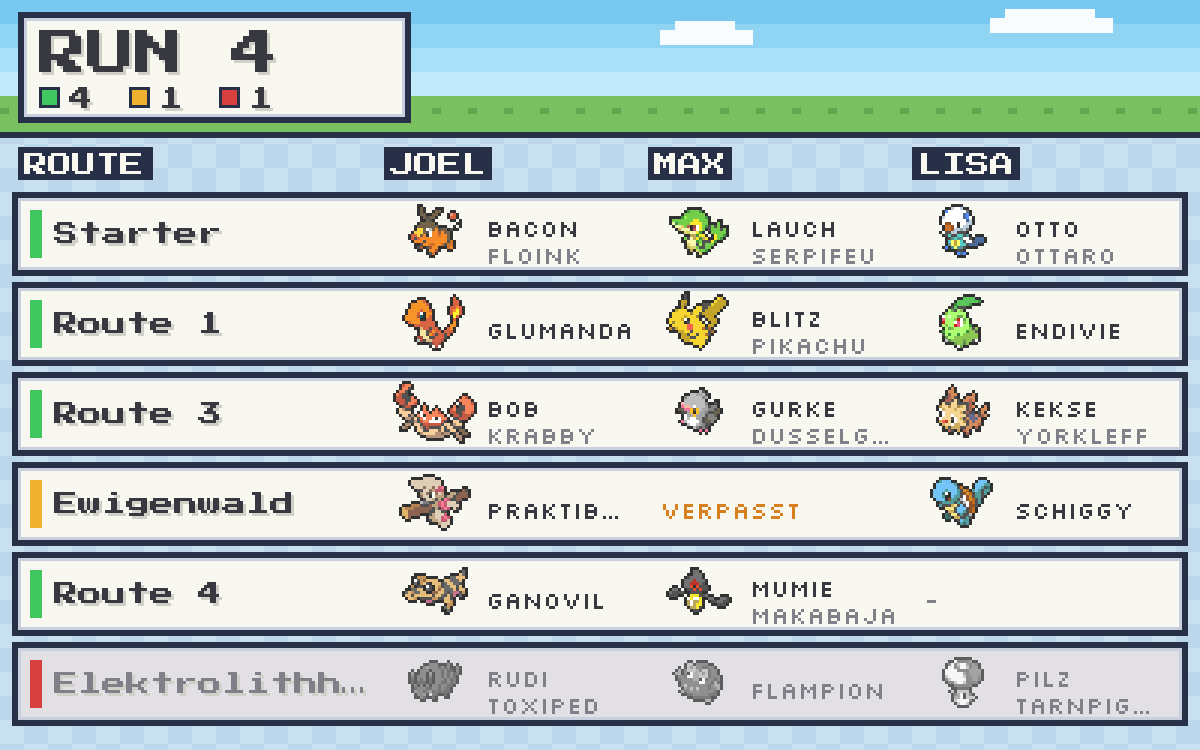
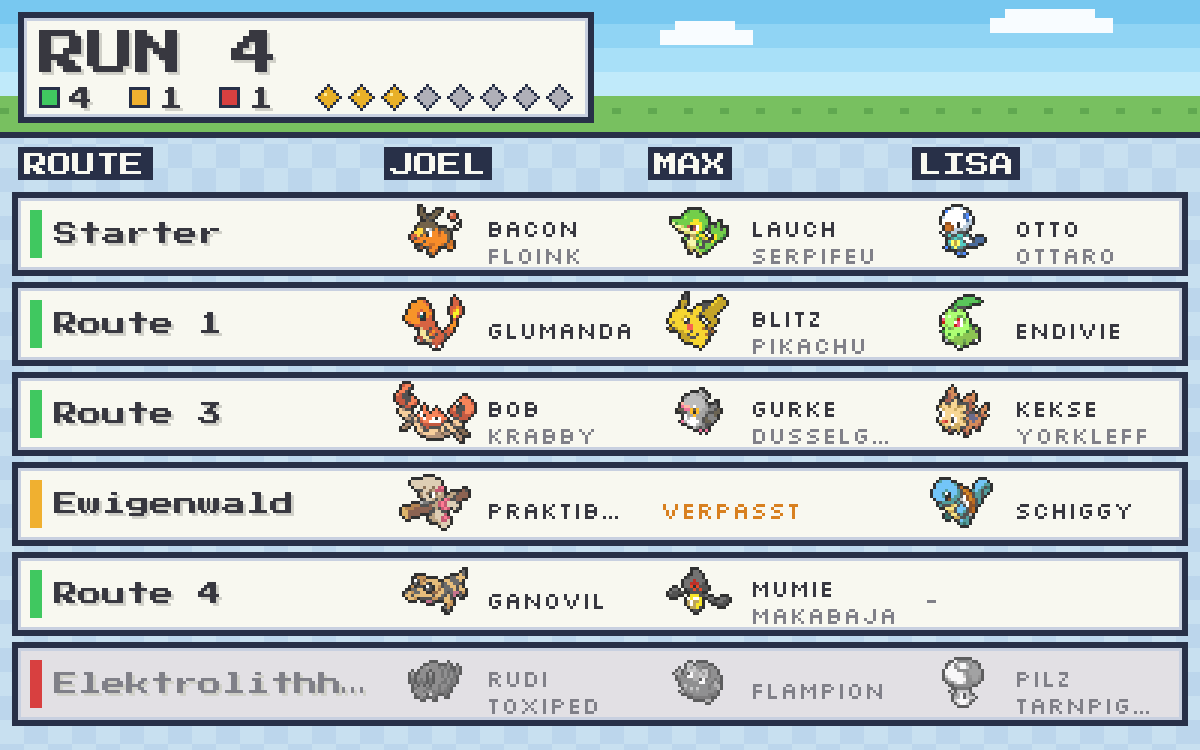
Arena-Fortschritt überall, globale Tabelle im Live-Status
- Ordenleiste im Status-Board und Live-Status
- Endstation und gefährlichster Gegner in /run liste
- Orden-Meilensteine und Orden-Kachel im Rückblick
- Spalte BESTE in der globalen Tabelle
- Live-Status zeigt zusätzlich die globale Tabelle

Changed region(s): [[0.2467, 0.0, 0.4933, 0.184]]

diff --git a/Services/ImageRenderer.cs b/Services/ImageRenderer.cs
@@ -392,14 +392,19 @@ public sealed class ImageRenderer
             using var img = CreatePage(mood, height);
             img.Mutate(ctx =>
             {
-                TitleBox(ctx, Sanitize(title), "", f8, f16);
+                (Color C, int V)[] legend =
+                [
+                    (PixGreen, run.Links.Count(l => l.Status == LinkStatus.Lebendig)),
+                    (PixYellow, run.Links.Count(l => l.Status == LinkStatus.Gebrochen)),
+                    (PixRed, run.Links.Count(l => l.Status == LinkStatus.Tot))
+                ];
+                // Rechts neben der Legende: 8 Orden, die geschafften golden
+                var badgesX = 13 + legend.Sum(l => 10 + (int)Width(l.V.ToString(), f8) + 12) + 2;
+                TitleBox(ctx, Sanitize(title), "", f8, f16, minWidth: Math.Max(130, badgesX + 8 * 11 - 2));
+                for (var i = 0; i < 8; i++) Badge(ctx, badgesX + i * 11, 28, i < LevelCaps.Badges(run.Progress));
+
                 var lx = 13;
-                foreach (var (c, v) in new[]
-                         {
-                             (PixGreen, run.Links.Count(l => l.Status == LinkStatus.Lebendig)),
-                             (PixYellow, run.Links.Count(l => l.Status == LinkStatus.Gebrochen)),
-                             (PixRed, run.Links.Count(l => l.Status == LinkStatus.Tot))
-                         })
+                foreach (var (c, v) in legend)
                 {
                     PixRect(ctx, lx, 29, lx + 6, 35, PixFrame);
                     PixRect(ctx, lx + 1, 30, lx + 5, 34, c);
@@ -462,7 +467,7 @@ public sealed class ImageRenderer
         IReadOnlyList<string[]> rows, string[]? total) =>
         SafeRenderAsync(async () =>
         {
-            const int RowH = 22, Top = 62, First = 150;
+            const int RowH = 22, Top = 62, First = 140;
             var height = Top + RowH * Math.Max(1, rows.Count) + 14 + (total is null ? 0 : RowH + 10) + 6;
             var step = (386f - First) / Math.Max(1, headers.Length - 1);
             var (f8, f16, fs) = Fonts();
@@ -546,7 +551,7 @@ public sealed class ImageRenderer
                 .ToDictionary(x => x.s, x => x.Img);
             var (f8, f16, fs) = Fonts();
 
-            const int YTiles = 52, YLine = YTiles + 46, YPlayers = YLine + 58;
+            const int YTiles = 52, YLine = YTiles + 46, YPlayers = YLine + 64;
             var playersH = 20 + 18 * stats.Count;
             var yGrave = YPlayers + playersH + 8;
             var graveH = 18 + 26 * Math.Max(1, shown.Count) + (deaths.Count > MaxDeaths ? 12 : 0);
@@ -561,7 +566,7 @@ public sealed class ImageRenderer
                 (string Value, string Label, Color Color)[] tiles =
                 [
                     (FormatDuration(end - start, compact: true), "DAUER", PixInk),
-                    ($"{run.Links.Count}", "ROUTEN", PixInk),
+                    ($"{LevelCaps.Badges(run.Progress)}/8", "ORDEN", PixGold),
                     ($"{encounters.Count(e => e.Status == EncounterStatus.Gefangen)}", "FÄNGE", PixBlue),
                     ($"{deaths.Count}", "TODE", PixRed)
                 ];
@@ -576,17 +581,19 @@ public sealed class ImageRenderer
                 }
 
                 // Zeitstrahl
-                PixBoxShape(ctx, 4, YLine - 4, 395, YLine + 48);
+                PixBoxShape(ctx, 4, YLine - 4, 395, YLine + 54);
                 SText(ctx, 12, YLine + 2, "ZEITSTRAHL", PixMuted, fs);
-                var lx = 230;
+                var lx = 196;
                 foreach (var (c, label) in new[] { (PixGreen, "FANG"), (PixYellow, "VERPASST"), (PixRed, "TOD") })
                 {
                     PixRect(ctx, lx, YLine + 3, lx + 5, YLine + 8, c);
                     SText(ctx, lx + 8, YLine + 2, label, PixMuted, fs);
                     lx += 14 + (int)Width(label, fs);
                 }
+                Badge(ctx, lx - 1, YLine + 2, true, size: 7);
+                SText(ctx, lx + 8, YLine + 2, "ORDEN", PixMuted, fs);
 
-                const int Bx0 = 16, Bx1 = 383; var by = YLine + 26;
+                const int Bx0 = 16, Bx1 = 383; var by = YLine + 32;
                 int At(DateTime t) => (int)(Bx0 + (Bx1 - Bx0) * Math.Clamp((t - start).TotalHours / totalHours, 0, 1));
                 PixRect(ctx, Bx0, by - 1, Bx1, by, Rgb(176, 176, 184));
                 foreach (var e in encounters.OrderBy(e => e.CreatedAt))
@@ -596,6 +603,8 @@ public sealed class ImageRenderer
                 }
                 for (var i = 0; i < deaths.Count; i++)
                     NumberBadge(ctx, At(deaths[i].DiedAt!.Value), by, i + 1, f8);
+                foreach (var clear in run.ArenaClears.OrderBy(a => a.Nr))   // Meilensteine: wann welcher Kampf geschafft wurde
+                    Badge(ctx, At(clear.ClearedAt) - 3, by - 17, true, size: 7);
                 SText(ctx, Bx0, by + 9, "START", PixMuted, fs);
                 var endLabel = run.Status == RunStatus.Aktiv ? "JETZT" : "ENDE";
                 SText(ctx, (int)(Bx1 - Width(endLabel, fs)), by + 9, endLabel, PixMuted, fs);
@@ -704,6 +713,26 @@ public sealed class ImageRenderer
 
             return await ToPngAsync(img);
         });
+
+    private static readonly Color BadgeOn = Rgb(232, 176, 40), BadgeHigh = Rgb(255, 236, 150), BadgeOff = Rgb(176, 176, 184);
+
+    /// <summary>Pixel-Orden als Raute (9 oder 7 Pixel), golden wenn geschafft, sonst grau.</summary>
+    private static void Badge(IImageProcessingContext ctx, int x, int y, bool earned, int size = 9)
+    {
+        int[] outer = size == 9 ? [1, 3, 5, 7, 9, 7, 5, 3, 1] : [1, 3, 5, 7, 5, 3, 1];
+        int[] inner = size == 9 ? [1, 3, 5, 7, 5, 3, 1] : [1, 3, 5, 3, 1];
+        for (var i = 0; i < outer.Length; i++)
+        {
+            var x0 = x + (size - outer[i]) / 2;
+            PixRect(ctx, x0, y + i, x0 + outer[i] - 1, y + i, PixFrame);
+        }
+        for (var i = 0; i < inner.Length; i++)
+        {
+            var x0 = x + (size - inner[i]) / 2;
+            PixRect(ctx, x0, y + 1 + i, x0 + inner[i] - 1, y + 1 + i, earned ? BadgeOn : BadgeOff);
+        }
+        if (earned) PixRect(ctx, x + size / 2 - 1, y + 3, x + size / 2 - 1, y + 3, BadgeHigh);
+    }
 
     /// <summary>Pixel-Haken für geschaffte Kämpfe.</summary>
     private static void Checkmark(IImageProcessingContext ctx, int x, int y, Color c)

diff --git a/Services/CardFactory.cs b/Services/CardFactory.cs
@@ -174,17 +174,19 @@ public class CardFactory(ImageRenderer renderer)
         var embed = new EmbedBuilder()
             .WithTitle($"Run #{run.Number} {word}")
             .WithDescription((run.EndReason is null ? "" : $"**Grund:** {run.EndReason}\n") +
+                             $"**{LevelCaps.Reached(run)}**\n" +
                              $"{run.Links.Count} Routen · {dead} Soul Links gestorben")
             .WithColor(mood switch { SceneMood.Gold => Formatting.Gold, SceneMood.Night => Formatting.Red, _ => Formatting.Grey });
 
         var line1 = run.Status switch
         {
             RunStatus.Geschafft => "Ihr habt es geschafft! Glückwunsch!",
-            RunStatus.Gescheitert => $"Run {run.Number} ist vorbei…",
-            _ => $"Run {run.Number} wurde abgebrochen."
+            RunStatus.Gescheitert => LevelCaps.Next(run.Progress) is { } f ? $"Run {run.Number} endet vor {f.Short}…" : $"Run {run.Number} ist vorbei…",
+            _ => LevelCaps.Next(run.Progress) is { } g ? $"Abgebrochen vor {g.Short}." : $"Run {run.Number} wurde abgebrochen."
         };
         var stats = $"{run.Links.Count} Routen, {dead} Soul Links gestorben.";
-        var image = await renderer.BattleAsync(new BattleBanner(mood, $"RUN {run.Number}", Up(word),
+        var badges = LevelCaps.Badges(run.Progress);
+        var image = await renderer.BattleAsync(new BattleBanner(mood, $"RUN {run.Number}", $"{Up(word)} {badges}/8",
             line1, string.IsNullOrWhiteSpace(run.EndReason) ? stats : run.EndReason!,
             mons, alive, Math.Max(run.Links.Count, 1), Grayscale: run.Status != RunStatus.Geschafft));
         return new Card(embed, image, "run-ende.png");
@@ -249,14 +251,14 @@ public class CardFactory(ImageRenderer renderer)
         string imageTitle, string imageSubtitle)
     {
         var headers = global
-            ? new[] { "SPIELER", "RUNS", "LEBT", "FANG", "TODE", "VERP." }
+            ? new[] { "SPIELER", "RUNS", "LEBT", "FANG", "TODE", "VERP.", "BESTE" }
             : new[] { "SPIELER", "LEBT", "FANG", "TODE", "VERP." };
         var tones = global
-            ? new[] { Tone.Grey, Tone.Green, Tone.Blue, Tone.Red, Tone.Yellow }
+            ? new[] { Tone.Grey, Tone.Green, Tone.Blue, Tone.Red, Tone.Yellow, Tone.Gold }
             : new[] { Tone.Green, Tone.Blue, Tone.Red, Tone.Yellow };
 
         var rows = stats.Select(s => global
-                ? new[] { s.Name, $"{s.Runs}", $"{s.Alive}", $"{s.Caught}", $"{s.Deaths}", $"{s.Missed}" }
+                ? new[] { s.Name, $"{s.Runs}", $"{s.Alive}", $"{s.Caught}", $"{s.Deaths}", $"{s.Missed}", $"{s.Best}" }
                 : new[] { s.Name, $"{s.Alive}", $"{s.Caught}", $"{s.Deaths}", $"{s.Missed}" })
             .ToList();
 
@@ -264,7 +266,9 @@ public class CardFactory(ImageRenderer renderer)
         if (stats.Count > 1)
         {
             string[] sums = [$"{stats.Sum(s => s.Alive)}", $"{stats.Sum(s => s.Caught)}", $"{stats.Sum(s => s.Deaths)}", $"{stats.Sum(s => s.Missed)}"];
-            total = (global ? new[] { "Gesamt", "" } : new[] { "Gesamt" }).Concat(sums).ToArray();
+            total = global
+                ? new[] { "Gesamt", "" }.Concat(sums).Append("").ToArray()
+                : new[] { "Gesamt" }.Concat(sums).ToArray();
         }
 
         var mood = tone switch { Tone.Gold => SceneMood.Gold, Tone.Grey => SceneMood.Grey, _ => SceneMood.Day };
@@ -274,7 +278,8 @@ public class CardFactory(ImageRenderer renderer)
             : new EmbedBuilder()
                 .WithTitle(title)
                 .WithColor(tone == Tone.Gold ? Formatting.Gold : Formatting.Green)
-                .WithFooter((global ? "Lebend = im laufenden Run · " : "") + "Tode = Soul Links, deren Tod der Spieler ausgelöst hat");
+                .WithFooter((global ? "Lebend = im laufenden Run · Beste = weitester Fortschritt (Kämpfe) · " : "") +
+                            "Tode = Soul Links, deren Tod der Spieler ausgelöst hat");
         return new Card(embed, image, fileName);
     }
 

diff --git a/Services/RunService.cs b/Services/RunService.cs
@@ -10,7 +10,8 @@ public class NuzlockeException(string message) : Exception(message);
 public record LinkResult(Run Run, RouteLink Link);
 
 /// <summary>Eine Zeile der Übersichtstabelle.</summary>
-public record PlayerStats(string Name, int Runs, int Alive, int Caught, int Deaths, int Missed);
+/// <param name="Best">Weitester Fortschritt (geschaffte Pflichtkämpfe) in allen Runs des Spielers.</param>
+public record PlayerStats(string Name, int Runs, int Alive, int Caught, int Deaths, int Missed, int Best = 0);
 
 public class RunService(IDbContextFactory<NuzlockeDbContext> dbFactory)
 {
@@ -33,6 +34,7 @@ public class RunService(IDbContextFactory<NuzlockeDbContext> dbFactory)
             .Include(r => r.Participants).ThenInclude(p => p.Player)
             .Include(r => r.Links).ThenInclude(l => l.Encounters).ThenInclude(e => e.Player)
             .Include(r => r.Links).ThenInclude(l => l.CausedByPlayer)
+            .Include(r => r.ArenaClears)
             .AsSplitQuery();
 
     private static async Task<Run> RequireActiveRunAsync(NuzlockeDbContext db, ulong guildId) =>
@@ -136,6 +138,8 @@ public class RunService(IDbContextFactory<NuzlockeDbContext> dbFactory)
             ?? throw new NuzlockeException("Alle Arenen, die Top Vier, N und G-Cis sind schon geschafft. Zeit für `/run ende`!");
 
         run.Progress++;
+        if (run.ArenaClears.All(a => a.Nr != fight.Nr))
+            run.ArenaClears.Add(new ArenaClear { Nr = fight.Nr });   // Zeitpunkt für den Zeitstrahl im Rückblick
         await db.SaveChangesAsync();
         OnRunChanged(guildId);
         return (run, fight);
@@ -150,6 +154,12 @@ public class RunService(IDbContextFactory<NuzlockeDbContext> dbFactory)
         await using var db = await dbFactory.CreateDbContextAsync();
         var run = await RequireActiveRunAsync(db, guildId);
         run.Progress = progress;
+        // Zurückgesetzte Kämpfe verlieren ihren Zeitpunkt; nachgetragene bekommen keinen (Zeitpunkt unbekannt)
+        foreach (var clear in run.ArenaClears.Where(a => a.Nr > progress).ToList())
+        {
+            run.ArenaClears.Remove(clear);
+            db.ArenaClears.Remove(clear);
+        }
         await db.SaveChangesAsync();
         OnRunChanged(guildId);
         return run;
@@ -418,7 +428,8 @@ public class RunService(IDbContextFactory<NuzlockeDbContext> dbFactory)
                     .Count(l => l.Encounters.Any(e => e.PlayerId == p.Id && e.Status == EncounterStatus.Gefangen)) ?? 0,
                 Caught: encounters.Count(e => e.PlayerId == p.Id && e.Status == EncounterStatus.Gefangen),
                 Deaths: deadLinks.Count(l => l.CausedByPlayerId == p.Id),
-                Missed: encounters.Count(e => e.PlayerId == p.Id && e.Status == EncounterStatus.Verpasst)))
+                Missed: encounters.Count(e => e.PlayerId == p.Id && e.Status == EncounterStatus.Verpasst),
+                Best: runs.Where(r => r.Participants.Any(x => x.PlayerId == p.Id)).Select(r => r.Progress).DefaultIfEmpty(0).Max()))
             .ToList();
     }
 

diff --git a/Data/NuzlockeDbContext.cs b/Data/NuzlockeDbContext.cs
@@ -12,6 +12,7 @@ public class NuzlockeDbContext(DbContextOptions<NuzlockeDbContext> options) : Db
     public DbSet<CustomRoute> CustomRoutes => Set<CustomRoute>();
     public DbSet<PlayerAchievement> PlayerAchievements => Set<PlayerAchievement>();
     public DbSet<LiveMessage> LiveMessages => Set<LiveMessage>();
+    public DbSet<ArenaClear> ArenaClears => Set<ArenaClear>();
 
     /// <summary>
     /// Legt Tabellen an, die nach dem ersten Start dazugekommen sind.
@@ -38,6 +39,15 @@ public class NuzlockeDbContext(DbContextOptions<NuzlockeDbContext> options) : Db
                 CONSTRAINT "FK_PlayerAchievements_Players_PlayerId" FOREIGN KEY ("PlayerId") REFERENCES "Players" ("Id") ON DELETE CASCADE
             );
             CREATE UNIQUE INDEX IF NOT EXISTS "IX_PlayerAchievements_PlayerId_Key" ON "PlayerAchievements" ("PlayerId", "Key");
+
+            CREATE TABLE IF NOT EXISTS "ArenaClears" (
+                "Id" INTEGER NOT NULL CONSTRAINT "PK_ArenaClears" PRIMARY KEY AUTOINCREMENT,
+                "RunId" INTEGER NOT NULL,
+                "Nr" INTEGER NOT NULL,
+                "ClearedAt" TEXT NOT NULL,
+                CONSTRAINT "FK_ArenaClears_Runs_RunId" FOREIGN KEY ("RunId") REFERENCES "Runs" ("Id") ON DELETE CASCADE
+            );
+            CREATE UNIQUE INDEX IF NOT EXISTS "IX_ArenaClears_RunId_Nr" ON "ArenaClears" ("RunId", "Nr");
 
             CREATE TABLE IF NOT EXISTS "LiveMessages" (
                 "GuildId" INTEGER NOT NULL CONSTRAINT "PK_LiveMessages" PRIMARY KEY,
@@ -93,6 +103,10 @@ public class NuzlockeDbContext(DbContextOptions<NuzlockeDbContext> options) : Db
             .WithMany()
             .HasForeignKey(l => l.CausedByPlayerId)
             .OnDelete(DeleteBehavior.SetNull);
+
+        b.Entity<ArenaClear>()
+            .HasIndex(a => new { a.RunId, a.Nr })
+            .IsUnique();
 
         b.Entity<LiveMessage>().HasKey(m => m.GuildId);
         b.Entity<LiveMessage>().Property(m => m.GuildId).ValueGeneratedNever();

diff --git a/Modules/RunModule.cs b/Modules/RunModule.cs
@@ -49,7 +49,7 @@ public class RunModule(RunService runs, AchievementService achievements, CardFac
             foreach (var r in all)
             {
                 var dead = r.Links.Count(l => l.Status == LinkStatus.Tot);
-                sb.Append($"**#{r.Number}** {Formatting.RunStatusText(r.Status)} · {r.Links.Count} Routen, {dead} Tote");
+                sb.Append($"**#{r.Number}** {Formatting.RunStatusText(r.Status)} · {LevelCaps.Reached(r)} · {r.Links.Count} Routen, {dead} Tote");
                 if (!string.IsNullOrWhiteSpace(r.EndReason)) sb.Append($" · _{r.EndReason}_");
                 sb.AppendLine();
             }
@@ -76,6 +76,12 @@ public class RunModule(RunService runs, AchievementService achievements, CardFac
                 .AddField("Soul Links gestorben", deadLinks.Count.ToString(), inline: true)
                 .AddField("Häufigste Todesursache", OrDash(topCauses))
                 .AddField("Meiste Tode ausgelöst", OrDash(topPlayers))
+                .AddField("Gefährlichster Gegner", OrDash(all
+                    .Where(r => r.Status == RunStatus.Gescheitert && LevelCaps.Next(r.Progress) is not null)
+                    .GroupBy(r => LevelCaps.Next(r.Progress)!.Trainer)
+                    .OrderByDescending(g => g.Count())
+                    .Take(3)
+                    .Select(g => $"{g.Key} ({g.Count()}× gescheitert)")))
                 .WithColor(Formatting.Grey)
                 .Build();
 

diff --git a/Data/LevelCaps.cs b/Data/LevelCaps.cs
@@ -28,6 +28,18 @@ public static class LevelCaps
         new(11, "G-Cis", "G-CIS", "N's Schloss", "Gemischt", null, 54),
     ];
 
+    /// <summary>Anzahl Orden bei einem Fortschritt (Top Vier, N, G-Cis geben keine Orden).</summary>
+    public static int Badges(int progress) => Math.Clamp(progress, 0, 8);
+
+    /// <summary>Wie weit ein Run gekommen ist, z. B. "vor Arenaleiter Artie (2 Orden)" oder "Story geschafft".</summary>
+    public static string Reached(Run run)
+    {
+        if (Next(run.Progress) is not { } next) return "Story geschafft";
+        var badges = Badges(run.Progress);
+        var prefix = run.Status == RunStatus.Aktiv ? "aktuell vor" : "Endstation vor";
+        return $"{prefix} {next.Trainer} ({badges} Orden)";
+    }
+
     /// <summary>Nächster Kampf bei einem Fortschritt (Anzahl geschaffter Kämpfe), null wenn alles geschafft ist.</summary>
     public static BossFight? Next(int progress) =>
         progress >= 0 && progress < Schwarz.Count ? Schwarz[progress] : null;

diff --git a/Services/LiveStatusService.cs b/Services/LiveStatusService.cs
@@ -223,7 +223,14 @@ public class LiveStatusService
             run.Status == RunStatus.Aktiv ? Tone.Green : Tone.Grey, "live-tabelle.png",
             $"RUN {run.Number}", CardFactory.StatusWord(run.Status));
 
-        return new[] { board, table }.Prepare();
+        // Globale Tabelle über alle Runs
+        var all = await _runs.GetAllRunsAsync(guildId);
+        var active = all.FirstOrDefault(r => r.Status == RunStatus.Aktiv);
+        var used = all.Count(r => r.Status != RunStatus.Aktiv);
+        var global = await _cards.StatsAsync($"🌍 Alle Runs – {used} verbraucht", RunService.ComputeStats(all, aliveIn: active),
+            global: true, Tone.Gold, "live-global.png", "ALLE RUNS", used == 1 ? "1 RUN VERBRAUCHT" : $"{used} RUNS VERBRAUCHT");
+
+        return new[] { board, table, global }.Prepare();
     }
 
     private async Task<IUserMessage?> GetMessageAsync(LiveMessage live)

diff --git a/Data/Entities.cs b/Data/Entities.cs
@@ -51,6 +51,18 @@ public class Run
 
     public List<RunParticipant> Participants { get; set; } = [];
     public List<RouteLink> Links { get; set; } = [];
+    public List<ArenaClear> ArenaClears { get; set; } = [];
+}
+
+/// <summary>Zeitpunkt, an dem ein Pflichtkampf (Arena, Top Vier, N, G-Cis) in einem Run geschafft wurde.</summary>
+public class ArenaClear
+{
+    public int Id { get; set; }
+    public int RunId { get; set; }
+    public Run Run { get; set; } = null!;
+    /// <summary>Nummer des Kampfes aus <see cref="LevelCaps"/> (1–11).</summary>
+    public int Nr { get; set; }
+    public DateTime ClearedAt { get; set; } = DateTime.UtcNow;
 }
 
 public class RunParticipant

diff --git a/README.md b/README.md
@@ -38,7 +38,7 @@ Gruppe von Spielern dokumentiert – mit Regelprüfung, Statistiken, Erfolgen un
   mit den Sprites aller Soul-Link-Partner, ein Status-Board mit Menü-Icons und
   große Statistik-Tabellen, gezeichnet zur Laufzeit.
 - **Statistiken** – pro Run und über alle Runs: lebende Pokémon, Fänge, ausgelöste Tode, verpasste Encounter.
-- **Live-Status** – eine angepinnte Nachricht mit Board und Tabelle, die sich bei jeder Änderung selbst aktualisiert.
+- **Live-Status** – eine angepinnte Nachricht mit Board, Run-Tabelle und globaler Tabelle, die sich bei jeder Änderung selbst aktualisiert.
 - **Run-Rückblick** – am Ende jedes Runs ein Bild mit Dauer, Zeitstrahl aller Fänge und Tode, Spieler-Statistik
   und nummeriertem Friedhof.
 - **16 Erfolge & 5 Titel** – z. B. *Legendär*, *Blitzkrieg*, *Wipe-Verursacher*; Titel wie *Pechvogel*
@@ -48,6 +48,8 @@ Gruppe von Spielern dokumentiert – mit Regelprüfung, Statistiken, Erfolgen un
 - **Eigene Routen** – z. B. für Static- oder Geschenk-Pokémon, für alle Spieler sichtbar.
 - **Korrekturen** – Vertipper und versehentliche Tode lassen sich rückgängig machen.
 - **Levelcap** – zeigt das höchste Level des nächsten Arenaleiters (bzw. Top Vier, N, G-Cis) und den Fortschritt im Run.
+- **Arena-Fortschritt überall** – Ordenleiste im Status, Endstation jedes Runs in `/run liste` (inkl. gefährlichstem
+  Gegner), Orden als Meilensteine im Rückblick und der weiteste Fortschritt pro Spieler in der globalen Tabelle.
 
 ## Tech-Stack
 
